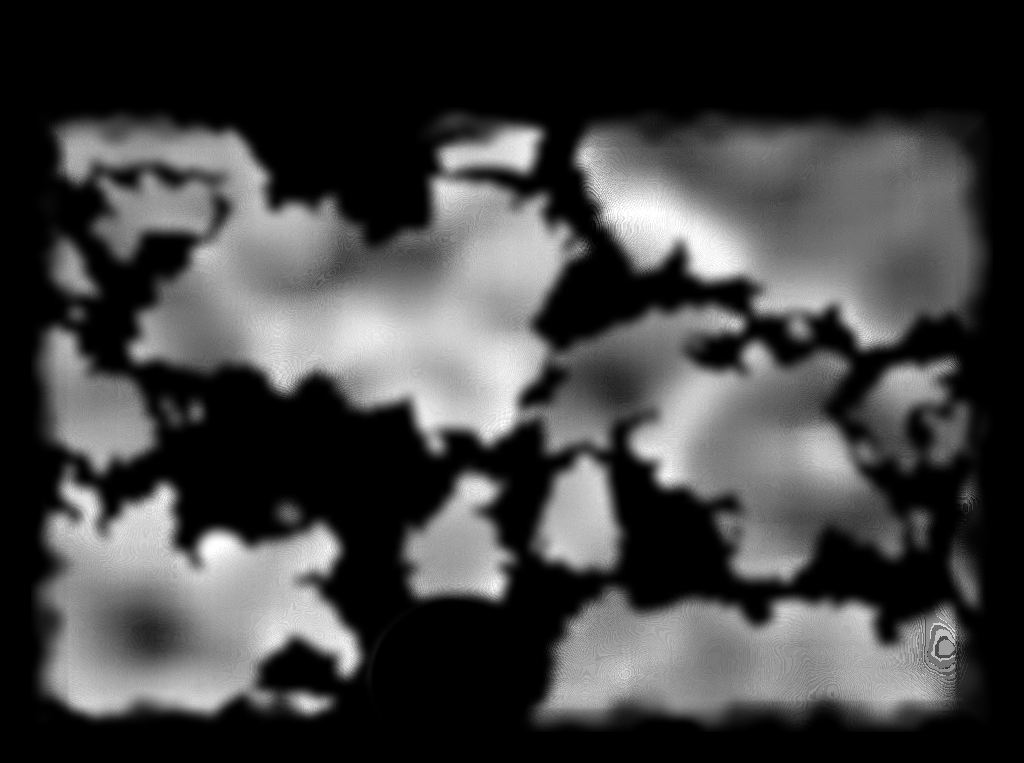
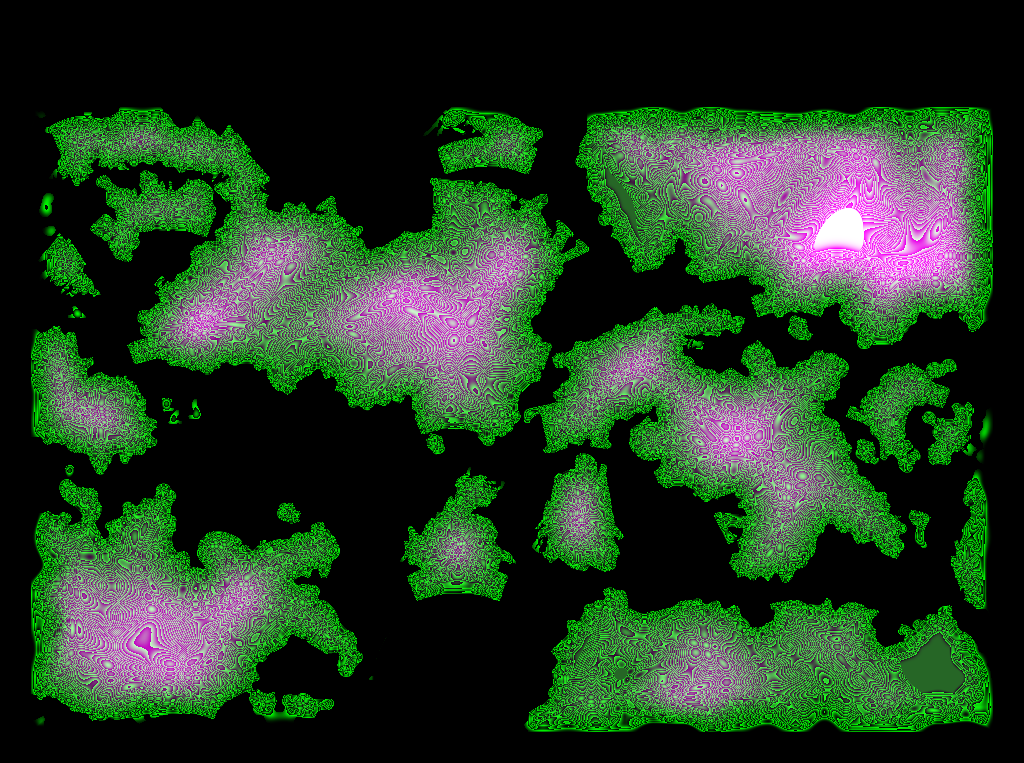
3d: land fills screen, shader normals, softer coasts

diff --git a/client/components/lab3d/Scene.tsx b/client/components/lab3d/Scene.tsx
@@ -4,6 +4,7 @@ import { Canvas, useFrame, useThree } from "@react-three/fiber"
 import { MapControls, useTexture } from "@react-three/drei"
 import * as THREE from "three"
 import { MAP } from "@/lib/map"
+import LAND from "@/public/maps/3d/land-bounds.json" // npm run gen3d
 import Pins from "./Pins"
 
 // ---- every tunable of the spike (world units: the map is MAP.w/100 x MAP.h/100 = 9.03 x 6.73) ----
@@ -11,14 +12,14 @@ export const LAB3D = {
   map: { w: MAP.w / 100, h: MAP.h / 100 },
   segments: [512, 382] as const,
   displacementScale: 0.12,   // world units at height 1.0; subtle, so lettering on the land doesn't warp
-  normalScale: 1,            // on top of the slope exaggeration baked into normal.png (gen-3d normalStrength)
+  reliefExaggeration: 3.5,   // shading slopes x this (normals come from the heightmap in the shader; the
+                             // geometry keeps displacementScale). gen-3d's preview mirrors it.
   world: 3,                  // world sea plane: square, this x the map width
   seaTilesAcrossMap: 8,      // sea-tile.webp repeats: must match gen-3d (4096px map / 512px tile)
   worldFade: [0.62, 0.98],   // world plane: opaque out to this fraction of its half-size, gone at the second (radial)
   fov: 40,
-  continents: { x0: 0.03, x1: 0.97, y0: 0.14, y1: 0.97 }, // fractions of the map: all of it fits at max zoom-out
-  fitMargin: 1.04,
-  panMargin: 0.08,           // may pan this far (x the map width) past the outermost continents
+  // framing: the land's bounding box (public/maps/3d/land-bounds.json) covers the screen at max zoom-out,
+  // and panning stops where the view would leave it
   minDistance: 1.1,          // max zoom-in
   pitch: [0.05, 0.85] as const, // rad from straight down: fully zoomed out -> fully zoomed in
   fog: [1.6, 3.2] as const,  // fog near/far, x the camera distance (tilted views fade into the background)
@@ -47,7 +48,7 @@ const smoothstep = (a: number, b: number, v: number) => {
   return x * x * (3 - 2 * x)
 }
 
-// colour textures in sRGB; data textures (height, normal) stay linear
+// colour textures in sRGB; the heightmap stays linear
 const srgb = (tex: THREE.Texture | THREE.Texture[]) => {
   for (const t of Array.isArray(tex) ? tex : [tex]) {
     if (t.colorSpace === THREE.SRGBColorSpace) continue
@@ -57,9 +58,43 @@ const srgb = (tex: THREE.Texture | THREE.Texture[]) => {
   }
 }
 
+// Normals from the heightmap in the fragment shader, so there's no normal map: central differences of the
+// 16-bit height (R = high byte, G = low byte), a texel apart (a screen pixel apart when zoomed out, via
+// fwidth), as the normal of the flat-lying plane (u = +x, v = north = -z), then into view space.
+function reliefNormals(heightMap: THREE.Texture) {
+  const img = heightMap.image as { width: number; height: number }
+  const slope = (LAB3D.displacementScale / (2 * (W / img.width))) * LAB3D.reliefExaggeration
+  return (shader: THREE.WebGLProgramParametersWithUniforms) => {
+    shader.uniforms.reliefMap = { value: heightMap }
+    shader.uniforms.reliefTexel = { value: new THREE.Vector2(1 / img.width, 1 / img.height) }
+    shader.uniforms.reliefSlope = { value: slope }
+    shader.fragmentShader = shader.fragmentShader
+      .replace(
+        "#include <common>",
+        `#include <common>
+uniform sampler2D reliefMap;
+uniform vec2 reliefTexel;
+uniform float reliefSlope;
+float reliefAt(vec2 uv) { vec4 t = texture2D(reliefMap, uv); return t.r * 0.996109 + t.g * 0.003891; }`,
+      )
+      .replace(
+        "#include <normal_fragment_maps>",
+        `vec2 reliefStep = max(reliefTexel, fwidth(vMapUv));
+vec2 reliefK = reliefSlope * reliefTexel / reliefStep;
+float reliefL = reliefAt(vMapUv - vec2(reliefStep.x, 0.0));
+float reliefR = reliefAt(vMapUv + vec2(reliefStep.x, 0.0));
+float reliefD = reliefAt(vMapUv - vec2(0.0, reliefStep.y));
+float reliefU = reliefAt(vMapUv + vec2(0.0, reliefStep.y));
+vec3 reliefN = normalize(vec3((reliefL - reliefR) * reliefK.x, 1.0, (reliefU - reliefD) * reliefK.y));
+normal = normalize((viewMatrix * vec4(reliefN, 0.0)).xyz);`,
+      )
+  }
+}
+
 function Terrain() {
   const color = useTexture("/maps/3d/color.webp", srgb)
-  const [height, normal] = useTexture(["/maps/3d/height.png", "/maps/3d/normal.png"])
+  const height = useTexture("/maps/3d/height.png")
+  const onBeforeCompile = useMemo(() => reliefNormals(height), [height])
   return (
     <>
       <mesh rotation-x={-Math.PI / 2}>
@@ -68,8 +103,7 @@ function Terrain() {
           map={color}
           displacementMap={height}
           displacementScale={LAB3D.displacementScale}
-          normalMap={normal}
-          normalScale={[LAB3D.normalScale, LAB3D.normalScale]}
+          onBeforeCompile={onBeforeCompile}
           roughness={1}
           metalness={0}
         />
@@ -139,9 +173,10 @@ function Clouds() {
   )
 }
 
-// MapControls without rotation. Max zoom-out fits every continent (portrait or landscape); the pitch
-// follows the zoom (straight down when out, tilted when in); the target is clamped so you can pan a little
-// past the outermost continents but never towards the edge of the world plane; fog scales with distance.
+// MapControls without rotation. Max zoom-out covers the screen with the land's bounding box (the tighter
+// axis fits, the other overflows and pans), recomputed on resize/rotation; the pitch follows the zoom
+// (straight down when out, tilted when in); panning stops where the top-down view would leave the land box
+// (tilted views may still see sea towards the horizon); fog scales with distance.
 function CameraRig() {
   const controls = useRef<ComponentRef<typeof MapControls>>(null)
   const camera = useThree((s) => s.camera)
@@ -149,28 +184,26 @@ function CameraRig() {
   const scene = useThree((s) => s.scene)
   const invalidate = useThree((s) => s.invalidate)
   const placed = useRef(false)
-  const c = LAB3D.continents
   const lim = useMemo(() => {
     const tan = Math.tan(((LAB3D.fov / 2) * Math.PI) / 180)
     const aspect = size.width / Math.max(1, size.height)
-    const cw = (c.x1 - c.x0) * W * LAB3D.fitMargin
-    const ch = (c.y1 - c.y0) * H * LAB3D.fitMargin
-    return {
-      cx: ((c.x0 + c.x1) / 2 - 0.5) * W,
-      cz: ((c.y0 + c.y1) / 2 - 0.5) * H,
-      halfW: cw / 2,
-      halfH: ch / 2,
-      tan,
-      aspect,
-      dMax: Math.max(ch / (2 * tan), cw / (2 * tan * aspect)),
-    }
-  }, [size.width, size.height, c.x0, c.x1, c.y0, c.y1])
+    const { x0, x1, z0, z1 } = LAND.world
+    // cover: the view (top-down, 2 d tan x 2 d tan aspect) fits inside the land box on both axes
+    const dMax = Math.min((z1 - z0) / (2 * tan), (x1 - x0) / (2 * tan * aspect))
+    return { x0, x1, z0, z1, cx: (x0 + x1) / 2, cz: (z0 + z1) / 2, tan, aspect, dMax: Math.max(LAB3D.minDistance * 1.5, dMax) }
+  }, [size.width, size.height])
 
   useLayoutEffect(() => {
     const ctl = controls.current
-    if (!ctl || placed.current) return
+    if (!ctl) return
+    if (placed.current) {
+      // resized / rotated: maxDistance has the new cover distance; update() pulls the camera in if needed
+      ctl.update()
+      invalidate()
+      return
+    }
     placed.current = true
-    // start fully zoomed out on the continents (?zoom=0..1 and ?at=x,y in map % pick another start)
+    // start fully zoomed out, centred on the land (?zoom=0..1 and ?at=x,y in map % pick another start)
     const q = new URLSearchParams(window.location.search)
     const t = Math.min(1, Math.max(0, Number(q.get("zoom") ?? 0) || 0))
     const at = q.get("at")?.split(",").map(Number)
@@ -196,12 +229,13 @@ function CameraRig() {
       ctl.minPolarAngle = ctl.maxPolarAngle = pitch
       ctl.update()
     }
-    // pan limit: the continents' box, less what's already on screen, plus a margin
-    const visH = d * lim.tan
-    const mx = Math.max(0, lim.halfW - visH * lim.aspect) + LAB3D.panMargin * W
-    const mz = Math.max(0, lim.halfH - visH) + LAB3D.panMargin * W
-    const tx = Math.min(lim.cx + mx, Math.max(lim.cx - mx, ctl.target.x))
-    const tz = Math.min(lim.cz + mz, Math.max(lim.cz - mz, ctl.target.z))
+    // pan limit: the top-down view at this distance (half extents d tan, d tan aspect) stays inside the land box
+    const hz = d * lim.tan
+    const hx = hz * lim.aspect
+    const keepIn = (v: number, lo: number, hi: number, half: number) =>
+      lo + half >= hi - half ? (lo + hi) / 2 : Math.min(hi - half, Math.max(lo + half, v))
+    const tx = keepIn(ctl.target.x, lim.x0, lim.x1, hx)
+    const tz = keepIn(ctl.target.z, lim.z0, lim.z1, hz)
     if (tx !== ctl.target.x || tz !== ctl.target.z) {
       const dx = tx - ctl.target.x
       const dz = tz - ctl.target.z

diff --git a/client/components/lab3d/Pins.tsx b/client/components/lab3d/Pins.tsx
@@ -15,7 +15,11 @@ function sampler(image: CanvasImageSource & { width: number; height: number }) {
   const ctx = c.getContext("2d", { willReadFrequently: true })!
   ctx.drawImage(image, 0, 0)
   const { data, width, height } = ctx.getImageData(0, 0, c.width, c.height)
-  const px = (x: number, y: number) => data[(Math.min(height - 1, y) * width + Math.min(width - 1, x)) * 4] / 255
+  // 16-bit height: R = high byte, G = low byte
+  const px = (x: number, y: number) => {
+    const i = (Math.min(height - 1, y) * width + Math.min(width - 1, x)) * 4
+    return (data[i] * 256 + data[i + 1]) / 65535
+  }
   return (u: number, v: number) => {
     const x = u * (width - 1)
     const y = v * (height - 1)
